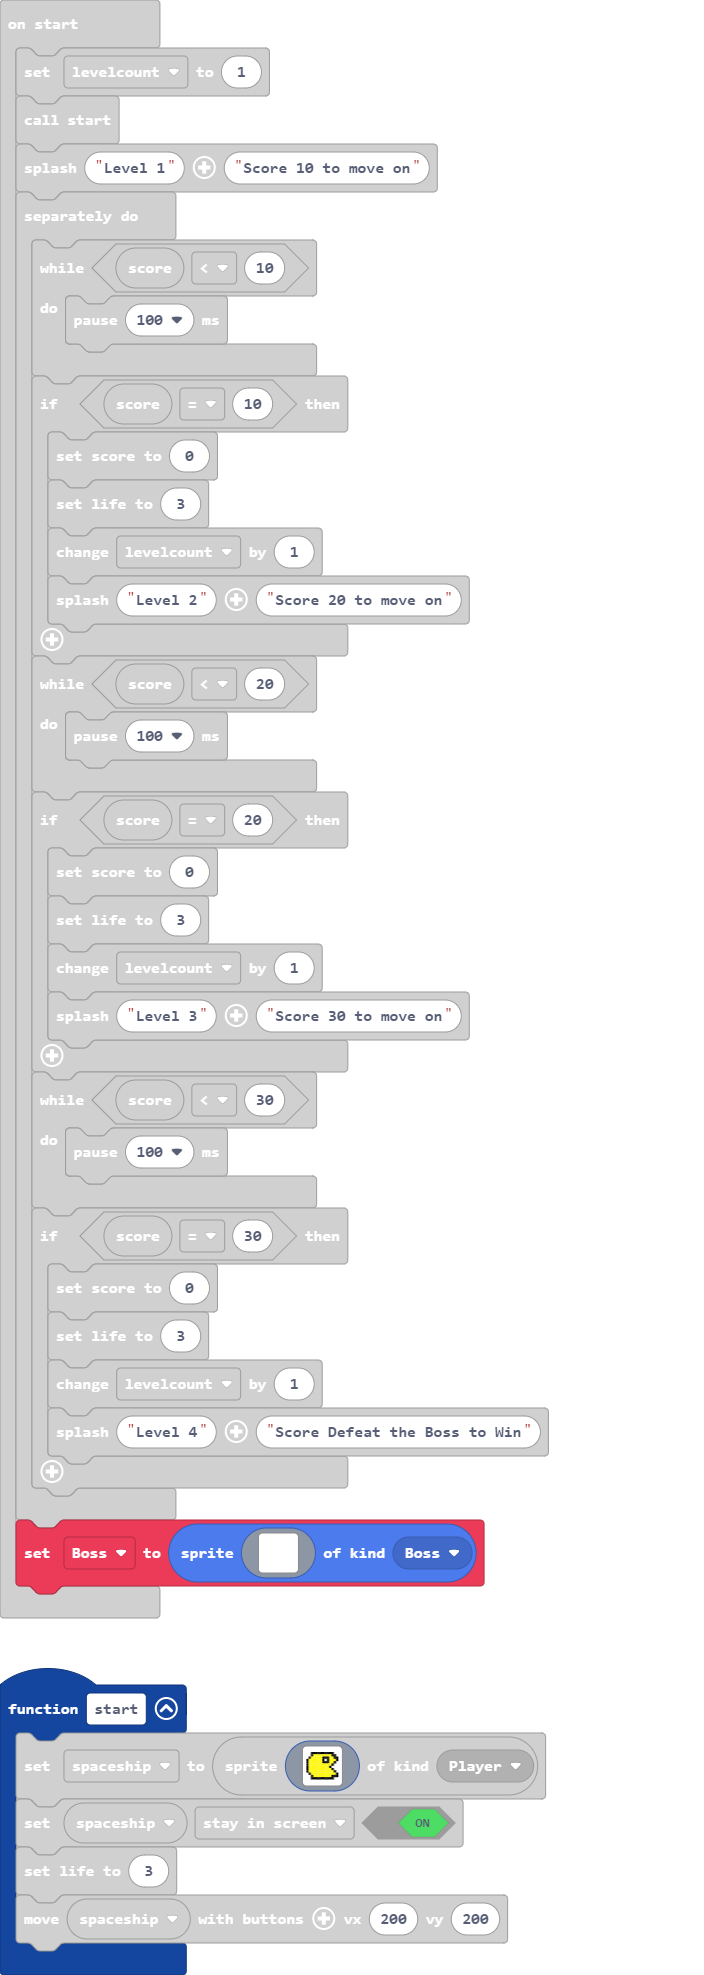
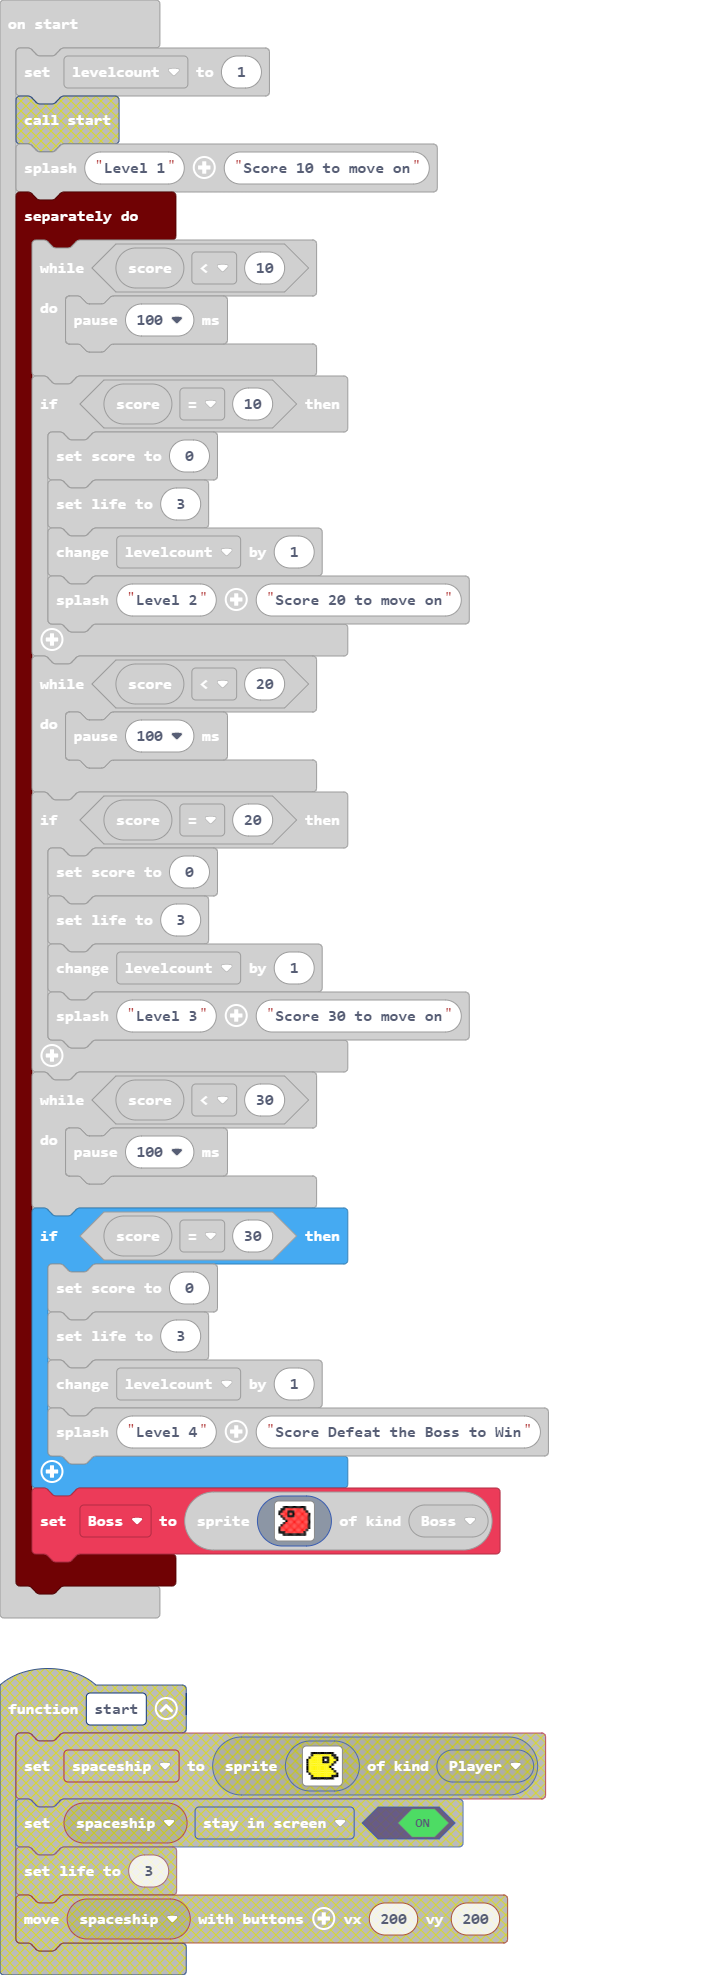
Finished Boss

Changed region(s): [[0.0, 0.0309, 0.7812, 1.0], [0.375, 0.5868, 0.5, 0.6486]]

diff --git a/main.ts b/main.ts
@@ -3,6 +3,7 @@ namespace SpriteKind {
     export const Boss = SpriteKind.create()
 }
 controller.A.onEvent(ControllerButtonEvent.Pressed, function () {
+    let spaceship: Sprite = null
     music.pewPew.play()
     dart = sprites.createProjectileFromSprite(img`
         . . . . . . . . . . . . . . . . 
@@ -38,25 +39,6 @@ sprites.onOverlap(SpriteKind.Player, SpriteKind.Food, function (sprite, otherSpr
     otherSprite.destroy(effects.hearts, 500)
     info.changeLifeBy(1)
 })
-function start () {
-    spaceship = sprites.create(img`
-        . . f f f f f f f f f f . . 
-        . . f 5 5 5 5 5 5 5 5 f f . 
-        . f 5 5 5 5 5 f f f 5 5 f f 
-        f 5 5 5 5 5 5 f 1 f 5 5 5 f 
-        f 5 5 5 5 5 5 f f f 5 5 f . 
-        f 5 5 5 5 5 5 5 5 5 5 f . . 
-        f 5 5 5 5 5 5 5 5 5 f . . . 
-        f 5 5 5 5 5 5 5 5 5 5 f . . 
-        f 5 5 5 5 5 5 5 5 5 5 5 f . 
-        . f 5 5 5 5 5 5 5 5 5 5 5 f 
-        . . f 5 5 5 5 5 5 5 5 f f f 
-        . . f f f f f f f f f f . . 
-        `, SpriteKind.Player)
-    spaceship.setFlag(SpriteFlag.StayInScreen, true)
-    info.setLife(3)
-    controller.moveSprite(spaceship, 200, 200)
-}
 sprites.onOverlap(SpriteKind.Projectile, SpriteKind.Enemy, function (sprite, otherSprite) {
     otherSprite.destroy()
     sprite.destroy(effects.fire, 100)
@@ -70,10 +52,9 @@ sprites.onOverlap(SpriteKind.Player, SpriteKind.Enemy, function (sprite, otherSp
 let bogey: Sprite = null
 let Speed_Sprite: Sprite = null
 let Life: Sprite = null
-let spaceship: Sprite = null
 let dart: Sprite = null
+let Boss: Sprite = null
 let levelcount = 1
-start()
 game.splash("Level 1", "Score 10 to move on")
 timer.background(function () {
     while (info.score() < 10) {
@@ -103,33 +84,35 @@ timer.background(function () {
         levelcount += 1
         game.splash("Level 4", "Score Defeat the Boss to Win")
     }
+    Boss = sprites.create(img`
+        1111ffffffffffffffffffff....
+        1111ffffffffffffffffffff....
+        11ffff2222222222222222ff....
+        11ffff2222222222222222ff....
+        ffff2222ffffff2222222222ff..
+        ffff2222ffffff2222222222ff..
+        ff222222ff22ff222222222222ff
+        ff222222ff22ff222222222222ff
+        ..ff2222ffffff222222222222ff
+        ..ff2222ffffff222222222222ff
+        ....ff22222222222222222222ff
+        ....ff22222222222222222222ff
+        ......ff222222222222222222ff
+        ......ff222222222222222222ff
+        ....ff22222222222222222222ff
+        ....ff22222222222222222222ff
+        ..ff2222222222222222222222ff
+        ..ff2222222222222222222222ff
+        ff222222222222222222222222ff
+        ff222222222222222222222222ff
+        ff2222222222222222222222ff..
+        ff2222222222222222222222ff..
+        ffffff2222222222222222ff....
+        ffffff2222222222222222ff....
+        ....ffffffffffffffffffff....
+        ....ffffffffffffffffffff....
+        `, SpriteKind.Boss)
 })
-let Boss = sprites.create(img`
-    ............................
-    ............................
-    ............................
-    ............................
-    ............................
-    ............................
-    ............................
-    ............................
-    ............................
-    ............................
-    ............................
-    ............................
-    ............................
-    ............................
-    ............................
-    ............................
-    ............................
-    ............................
-    ............................
-    ............................
-    ............................
-    ............................
-    ............................
-    ............................
-    `, SpriteKind.Boss)
 game.onUpdateInterval(5000, function () {
     if (2 <= levelcount) {
         Life = sprites.create(img`
